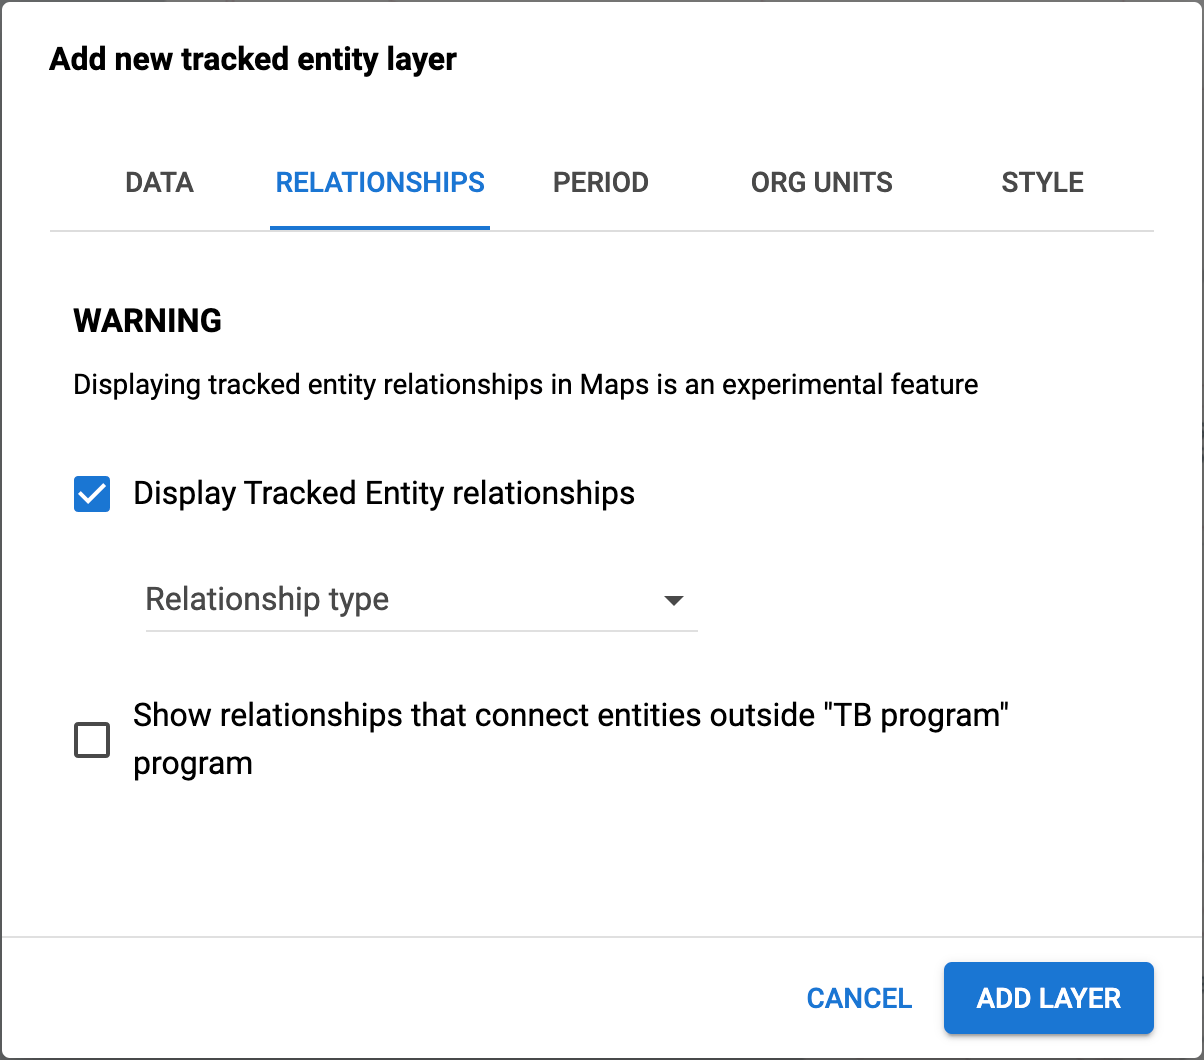
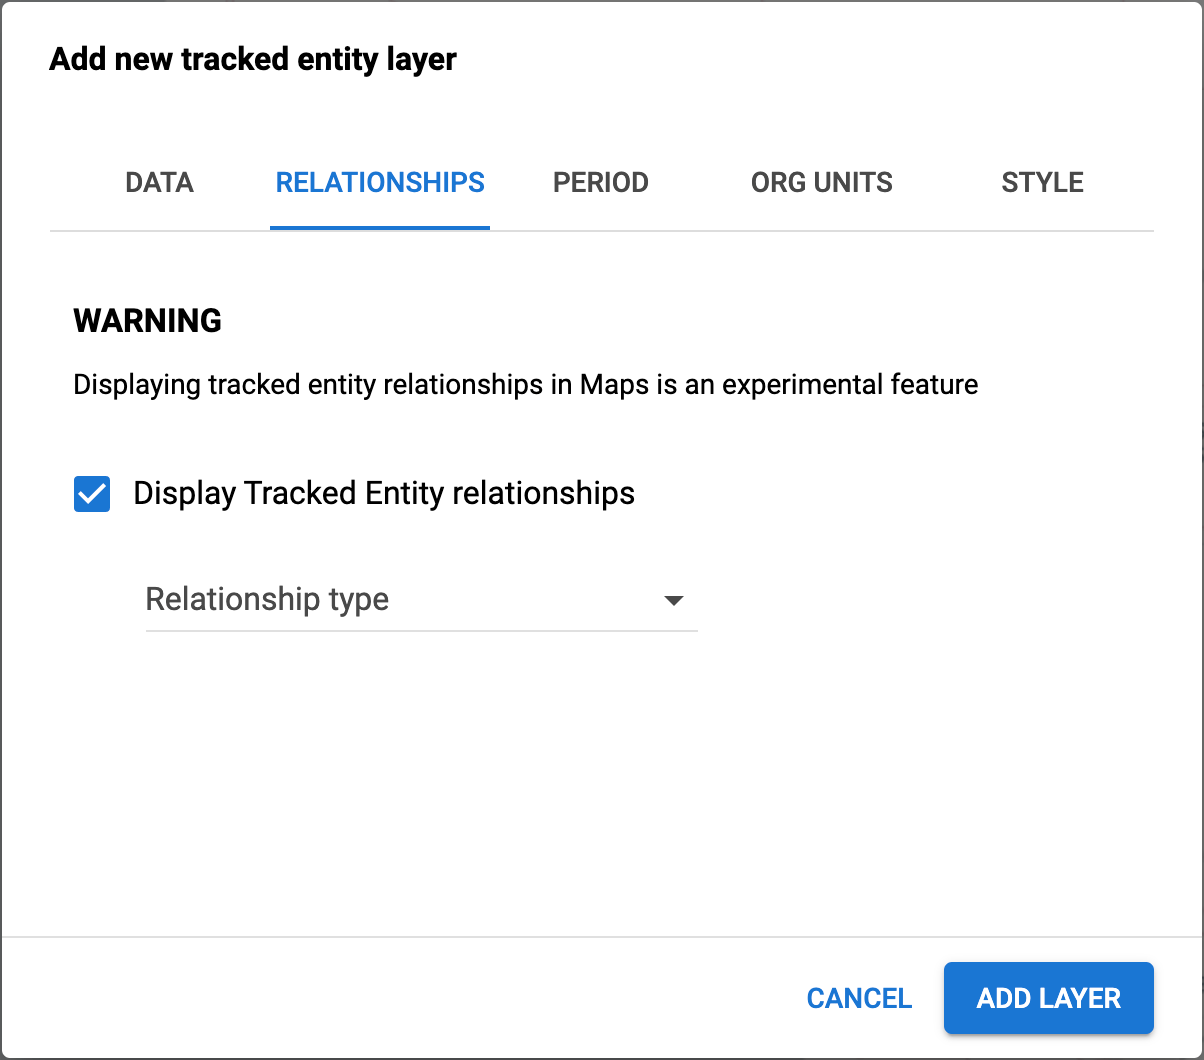
docs: revert TEI relationships outside program

Changed region(s): [[0.0615, 0.6538, 0.8297, 0.716], [0.0922, 0.716, 0.2151, 0.7472]]

diff --git a/src/commonmark/en/content/user/using-the-maps-app.md b/src/commonmark/en/content/user/using-the-maps-app.md
@@ -832,8 +832,6 @@ configuration dialog.
 
     - Once checked, you can select the type of relationship to display on the map from the dropdown list. Only relationships FROM the selected Tracked Entity type are available.
 
-    - If you select a program, only relationships between entities in the same program will show by default. You have an option to also show relationships to entities outside the program.
-
 3.  In the **PERIOD** tab
 
     ![](resources/images/maps/maps_tracked_entity_layer_dialog_PERIOD.png)
